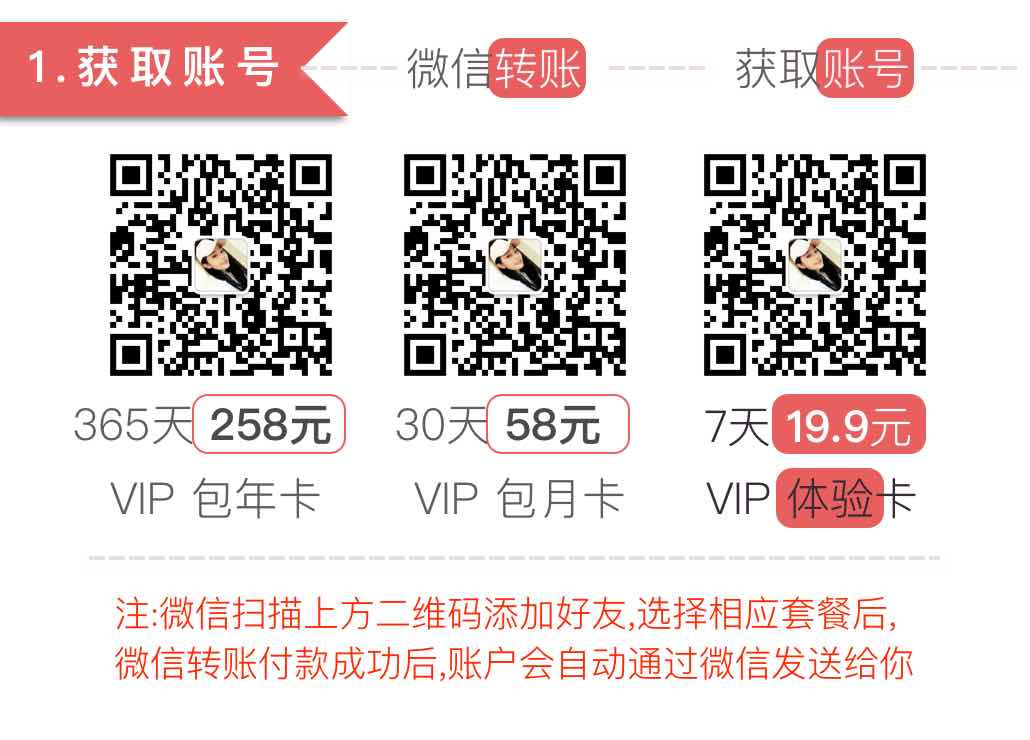
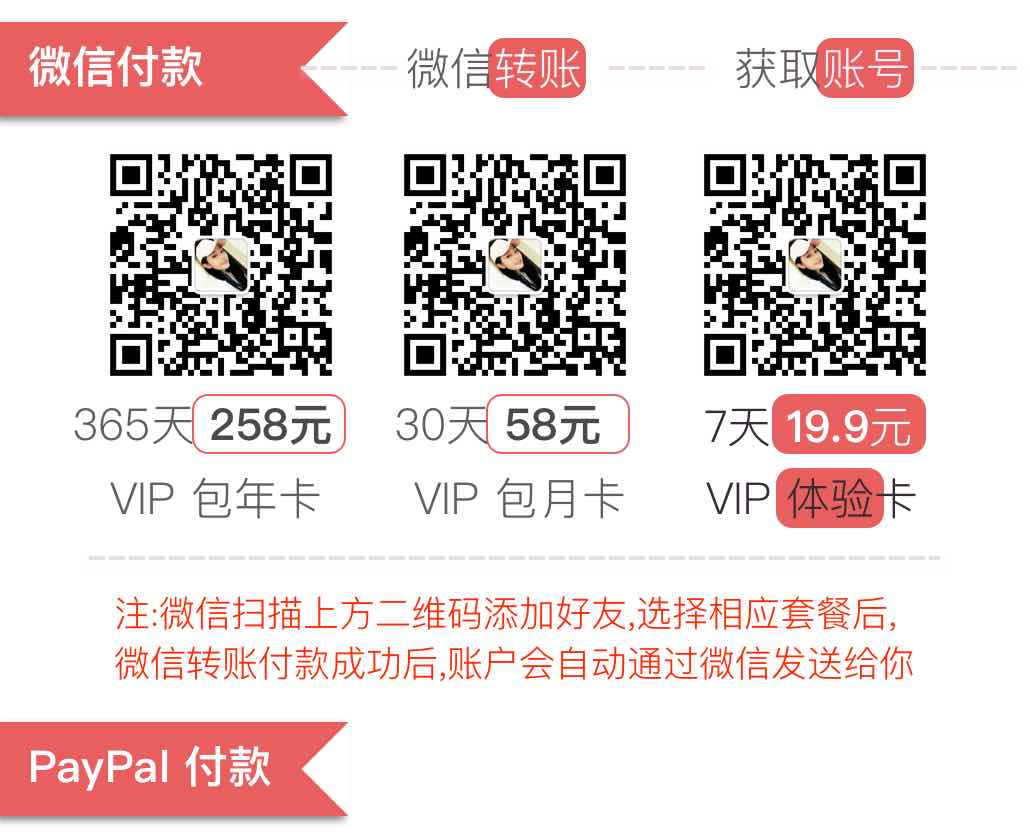
支持 PayPal 付款,账户过期将不能再登录

diff --git a/public/stylesheets/detail.css b/public/stylesheets/detail.css
@@ -94,7 +94,7 @@ xpopup
 .cd-popup-container {
   position: relative;
   width: 515px;
-  height: 430px;
+  height: 530px;
   margin: 4em auto;
   background: #fff;
   border-radius: .25em .25em .4em .4em;
@@ -115,10 +115,16 @@ xpopup
   transition-duration: 0.3s;
 }
 
+.cd-popup-container .paypaltable {
+  
+  margin-bottom: 10px;
+  margin-left: 160px;
+}
+
 .cd-popup-container .siginin {
   background-image: url("../images/pay.jpg");
   width: 100%;
-  height: 370px;
+  height: 420px;
   background-size: cover;
 }
 

diff --git a/routes/login.js b/routes/login.js
@@ -37,7 +37,7 @@ module.exports = function (req, res, next, callback) {
         connection.query("select * from user where username=?", [username], function (err, results, fields) {
 
             connection.release();
-            if (results.length == 1 && results[0]['pwd'] == pwd) {
+            if (results.length == 1 && results[0]['pwd'] == pwd && results[0]['expirestime'] < moment.unix()) {
 
                 req.session.user = username;
                 req.session.user_id = results[0]['uid'];

diff --git a/routes/success.js b/routes/success.js
@@ -35,7 +35,7 @@ module.exports = function (req, res, next, callback) {
 
         genUsername(6, function (username) {
 
-            var expirestime = moment().add(1, 'months').unix();
+            var expirestime = moment().add(7, 'days').unix();
             var pwd = randomString(6);
             connection.query("insert into user(username,pwd,expirestime) values(?,?,?)", [username, pwd, expirestime], function (err, results, fields) {
 

diff --git a/public/resource/login-style.css b/public/resource/login-style.css
@@ -398,9 +398,9 @@ a.book.popup-with-zoom-anim.button-isi.zoomIn.animated:hover {
 
 .tipsInfo {
   height: 20px;
-  margin-left: 100px;
-  padding-bottom: 40px;
-  padding-top: 40px;
+  margin-left: 10px;
+  padding-bottom: 30px;
+  padding-top: 60px;
   color:rgba(255, 0, 0, 0);
   
 }
